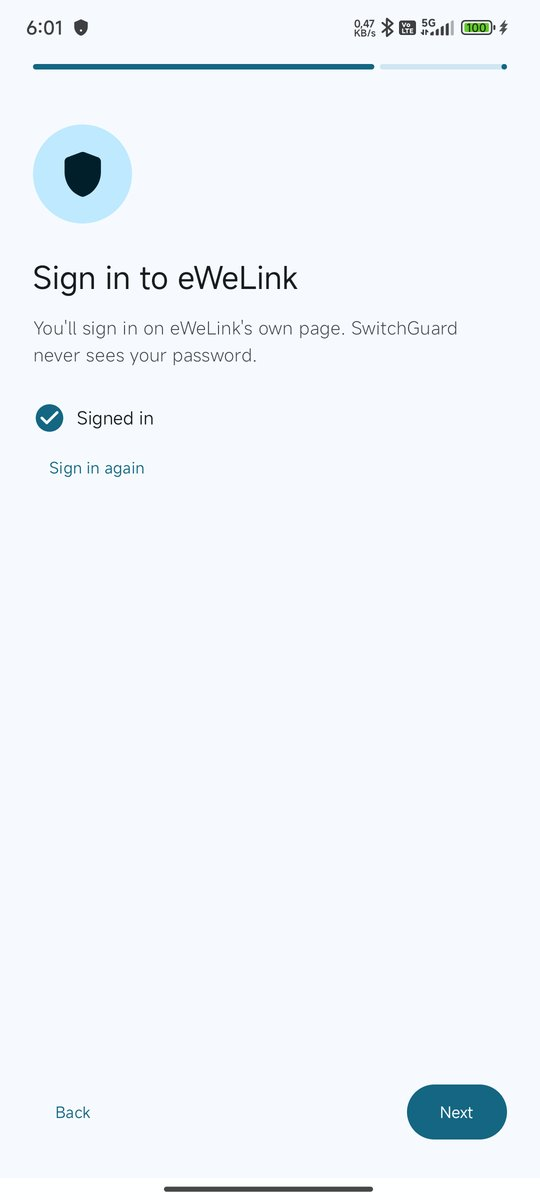
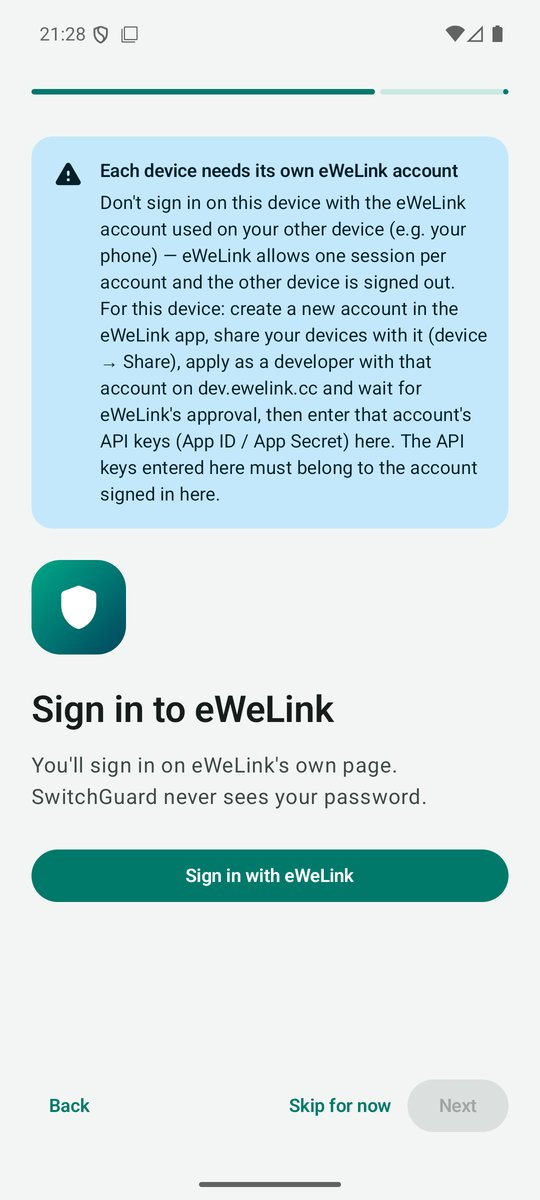
Guides: 2.17 screenshots, single-device eWeLink rule, narrated setup videos
- Refresh app screenshots in the eWeLink and Tuya guides (TR + EN) from 2.17
- eWeLink guides: same API credentials stay signed in on one device only;
  the device that entered/signed in last keeps the session
- Link the new narrated "getting API keys" videos in the guides and README

diff --git a/docs/guide/ewelink.tr.md b/docs/guide/ewelink.tr.md
@@ -6,11 +6,11 @@ Bu rehber, **eWeLink** uygulamasıyla kontrol ettiğiniz SONOFF ve diğer eWeLin
 
 SwitchGuard cihazlarınıza eWeLink'in resmi API'si üzerinden bağlanır. Bunun için eWeLink geliştirici sitesinde **size ait ücretsiz bir uygulama** (App ID + App Secret) oluşturacaksınız. Girişinizi eWeLink'in kendi sayfasında yaparsınız; SwitchGuard şifrenizi hiçbir zaman görmez.
 
-## Videolu anlatım (50 sn)
+## Videolu anlatım (3 dk)
 
-Tüm adımları kısa bir videoda izleyin: [YouTube'da aç](https://youtu.be/jK_KcG2OPao)
+Tüm adımları sesli anlatımlı bir videoda izleyin: [YouTube'da aç](https://youtu.be/G5vQ_7CXTcM)
 
-[![SwitchGuard – eWeLink hesabını bağlama](https://img.youtube.com/vi/jK_KcG2OPao/hqdefault.jpg)](https://youtu.be/jK_KcG2OPao)
+[![SwitchGuard – eWeLink hesabını bağlama](https://img.youtube.com/vi/G5vQ_7CXTcM/hqdefault.jpg)](https://youtu.be/G5vQ_7CXTcM)
 
 > **İhtiyacınız olanlar:** cihazlarınızın bulunduğu eWeLink hesabı, SwitchGuard. Geliştirici sitesi için bilgisayar daha rahattır ama telefonla da yapılabilir.
 
@@ -92,7 +92,7 @@ Yeni açılan eWeLink hesapları **geliştirici olarak kayıtlı gelmez**. Üst 
 
 Bu adımdaki **dev.ewelink.cc'yi aç** düğmesi siteyi açar, **Redirect URL'yi kopyala** da `https://127.0.0.1`'i panoya kopyalar.
 
-**İleri** → **API bilgilerinizi girin**:
+**İleri** → **API bilgilerinizi girin** (altındaki **Her cihaz için ayrı bir eWeLink hesabı gereklidir** uyarısına dikkat edin, bkz. [Birden fazla cihazda kullanım](#birden-fazla-cihazda-kullanım-telefon-tablet-android-tv)):
 
 1. **App ID:** 3. adımda kopyaladığınız APPID'yi yapıştırın.
 2. **App Secret:** App Secret'ı yapıştırın.
@@ -115,7 +115,7 @@ Bu adımdaki **dev.ewelink.cc'yi aç** düğmesi siteyi açar, **Redirect URL'yi
 ## Birden fazla cihazda kullanım (telefon, tablet, Android TV)
 
 - **Her cihaz için ayrı bir eWeLink hesabı gerekir. O hesapta geliştirici özelliği açılmalı (eWeLink onayı) ve o cihaza, o hesabın kendi API anahtarları (App ID ve App Secret) girilmelidir.** Cihaza girilen API anahtarları, o cihazda giriş yapılan eWeLink hesabına ait olmalıdır.
-- eWeLink, aynı hesapla yalnızca **bir** cihazda oturum açılmasına izin verir. Aynı hesapla ikinci bir cihazda giriş yaparsanız ilk cihazın oturumu kapanır (SwitchGuard bunu yüksek sesli bir uyarıyla bildirir).
+- **Aynı API bilgileriyle (App ID / App Secret) yalnızca bir cihazdan giriş yapılabilir.** eWeLink her hesap için tek oturuma izin verir: **en son hangi cihaza API bilgileri girilip giriş yapıldıysa oturum o cihazda aktif kalır**, diğer cihazın oturumu kapanır (SwitchGuard bunu yüksek sesli bir uyarıyla bildirir).
 - Her ek cihaz için: 1) **eWeLink uygulamasından** yeni bir hesap açın (eWeLink'in giriş sayfasında kayıt seçeneği yoktur), 2) cihazlarınızı eWeLink uygulamasında **cihaz → Paylaş** ile o hesapla paylaşın, 3) o hesapla dev.ewelink.cc'de [geliştirici başvurusu](#hesabınız-henüz-geliştirici-değilse-yeni-hesaplar) yapıp onay bekleyin, 4) onaydan sonra o hesapta uygulama oluşturup App ID ve App Secret'ı alın ve o cihaza girin.
 - **Kurulumu aktarma:** Telefonda **Ayarlar → Yedekleme ve aktarım → Başka cihaza aktar**, TV/tablette kurulum sırasında **Başka bir cihazdan aktar** ya da **Ayarlar → Yedekleme ve aktarım → Başka cihazdan al**. İki cihaz aynı Wi-Fi'da olmalı; TV'de görünen 6 haneli kodu telefona girersiniz. Tuya bilgileri, kurallar, otomasyonlar ve ayarlar ev ağınız içinde, kodla şifrelenerek aktarılır. eWeLink API anahtarları ve oturumu aktarılmaz — her cihaz kendi hesabının anahtarlarını kullanır.
 - **TV'de giriş:** en kolayı, eWeLink giriş sayfasının altındaki **Login by QR code** seçeneğidir — QR kodu, o cihaz için açtığınız hesapla giriş yapılmış eWeLink uygulamasıyla okutun. Kumandayla da giriş yapılabilir; telefonunuzdaki Google TV uygulamasının klavyesiyle yazmak daha kolaydır.

diff --git a/docs/guide/ewelink.en.md b/docs/guide/ewelink.en.md
@@ -6,11 +6,11 @@ This guide connects the SONOFF and other eWeLink-compatible devices you control 
 
 SwitchGuard talks to your devices through eWeLink's official API. For that you create **your own free app** (App ID + App Secret) on the eWeLink developer site. You sign in on eWeLink's own page; SwitchGuard never sees your password.
 
-## Video walkthrough (50 s)
+## Video walkthrough (3 min)
 
-Watch every step in a short video (on-screen captions in Turkish): [open on YouTube](https://youtu.be/jK_KcG2OPao)
+Watch every step in a short video (Turkish narration and captions): [open on YouTube](https://youtu.be/G5vQ_7CXTcM)
 
-[![SwitchGuard – connecting eWeLink](https://img.youtube.com/vi/jK_KcG2OPao/hqdefault.jpg)](https://youtu.be/jK_KcG2OPao)
+[![SwitchGuard – connecting eWeLink](https://img.youtube.com/vi/G5vQ_7CXTcM/hqdefault.jpg)](https://youtu.be/G5vQ_7CXTcM)
 
 > **You need:** the eWeLink account your devices are in, and SwitchGuard. A computer is easier for the developer site, but a phone works too.
 
@@ -92,7 +92,7 @@ New eWeLink accounts **are not registered as developers**. On **My center → Ac
 
 **Open dev.ewelink.cc** opens the site; **Copy Redirect URL** copies `https://127.0.0.1`.
 
-**Next** → **Enter your API credentials**:
+**Next** → **Enter your API credentials** (note the **Each device needs its own eWeLink account** warning below the fields, see [Using several devices](#using-several-devices-phone-tablet-android-tv)):
 
 1. **App ID:** paste the APPID from step 3.
 2. **App Secret:** paste the App Secret.
@@ -115,7 +115,7 @@ New eWeLink accounts **are not registered as developers**. On **My center → Ac
 ## Using several devices (phone, tablet, Android TV)
 
 - **Each device needs its own eWeLink account. That account must have the developer feature enabled (approved by eWeLink), and the device gets that account's own API keys (App ID and App Secret).** The API keys entered on a device must belong to the eWeLink account signed in on that device.
-- eWeLink allows a signed-in session on only **one** device per account. Signing in on a second device with the same account signs the first one out (SwitchGuard warns you loudly when that happens).
+- **The same API credentials (App ID / App Secret) can be signed in on only one device.** eWeLink allows one session per account: **the session stays active on the device where the credentials were entered and signed in most recently**, and the other device is signed out (SwitchGuard warns you loudly when that happens).
 - For each extra device: 1) create a new account **in the eWeLink app** (eWeLink's sign-in page has no sign-up), 2) share your devices with it in the eWeLink app (**device → Share**), 3) with that account, [apply as a developer](#if-your-account-isnt-a-developer-yet-new-accounts) on dev.ewelink.cc and wait for approval, 4) after approval create an app in that account and enter its App ID and App Secret on that device.
 - **Transferring the setup:** on the phone **Settings → Backup & transfer → Send to another device**, on the TV/tablet **Transfer from another device** (during setup) or **Settings → Backup & transfer → Receive from another device**. Both must be on the same Wi-Fi; enter the 6-digit code shown on the TV. Tuya keys, rules, automations and settings are sent inside your home network, encrypted with the code. eWeLink API keys and the session are not transferred — each device uses its own account's keys.
 - **Signing in on a TV:** easiest is **Login by QR code** at the bottom of eWeLink's sign-in page — scan it with the eWeLink app signed in to the account you created for that device. The remote works too; the keyboard in the Google TV app on your phone is easier.

diff --git a/docs/guide/tuya.tr.md b/docs/guide/tuya.tr.md
@@ -6,11 +6,11 @@ Bu rehber, **Smart Life** ya da **Tuya Smart** uygulamasıyla kontrol ettiğiniz
 
 SwitchGuard cihazlarınıza Tuya'nın resmi bulut API'si üzerinden, **size ait ücretsiz bir Tuya Cloud projesiyle** bağlanır. Bu yüzden önce bir proje açıp Smart Life hesabınızı ona bağlayacaksınız.
 
-## Videolu anlatım (1 dk)
+## Videolu anlatım (3 dk)
 
-Tüm adımları kısa bir videoda izleyin: [YouTube'da aç](https://youtu.be/sCdvMs7CSic)
+Tüm adımları sesli anlatımlı bir videoda izleyin: [YouTube'da aç](https://youtu.be/8vPjJMoMaMU)
 
-[![SwitchGuard – Tuya / Smart Life hesabını bağlama](https://img.youtube.com/vi/sCdvMs7CSic/hqdefault.jpg)](https://youtu.be/sCdvMs7CSic)
+[![SwitchGuard – Tuya / Smart Life hesabını bağlama](https://img.youtube.com/vi/8vPjJMoMaMU/hqdefault.jpg)](https://youtu.be/8vPjJMoMaMU)
 
 > **İhtiyacınız olanlar:** bir bilgisayar (Tuya sitesi telefonda zor kullanılır), Smart Life / Tuya Smart uygulaması yüklü telefon, SwitchGuard.
 

diff --git a/docs/guide/tuya.en.md b/docs/guide/tuya.en.md
@@ -6,11 +6,11 @@ This guide connects the devices you control in the **Smart Life** or **Tuya Smar
 
 SwitchGuard reads your devices through Tuya's official cloud API using **your own free Tuya Cloud project**. So first you create a project and link your Smart Life account to it.
 
-## Video walkthrough (1 min)
+## Video walkthrough (3 min)
 
-Watch every step in a short video (on-screen captions in Turkish): [open on YouTube](https://youtu.be/sCdvMs7CSic)
+Watch every step in a short video (Turkish narration and captions): [open on YouTube](https://youtu.be/8vPjJMoMaMU)
 
-[![SwitchGuard – connecting Tuya / Smart Life](https://img.youtube.com/vi/sCdvMs7CSic/hqdefault.jpg)](https://youtu.be/sCdvMs7CSic)
+[![SwitchGuard – connecting Tuya / Smart Life](https://img.youtube.com/vi/8vPjJMoMaMU/hqdefault.jpg)](https://youtu.be/8vPjJMoMaMU)
 
 > **You need:** a computer (the Tuya website is hard to use on a phone), a phone with the Smart Life / Tuya Smart app, and SwitchGuard.
 

diff --git a/README.md b/README.md
@@ -69,8 +69,8 @@ Release builds need a `keystore.properties` + keystore in the project root (not 
 - New in 2.12 – a tour of the app (EN): https://youtube.com/shorts/jvm0hx0gATk
 - 2.12 yenilikleri – uygulama turu (TR): https://youtube.com/shorts/2KeUgJrCCEU
 - First setup in one minute / İlk kurulum (1 dk): https://youtube.com/shorts/jarBmMg2kYA
-- Connecting eWeLink / eWeLink'i bağlama: https://youtu.be/jK_KcG2OPao
-- Connecting Tuya / Smart Life / Tuya'yı bağlama: https://youtu.be/sCdvMs7CSic
+- **Getting eWeLink API keys / eWeLink API anahtarlarını alma (TR, sesli):** https://youtu.be/G5vQ_7CXTcM
+- **Getting Tuya API keys / Tuya API anahtarlarını alma (TR, sesli):** https://youtu.be/8vPjJMoMaMU
 
 ## Changelog / Sürüm geçmişi
 [English](CHANGELOG.md) · [Türkçe](CHANGELOG.tr.md) · [Releases](https://github.com/Macerce/switchguard/releases)
